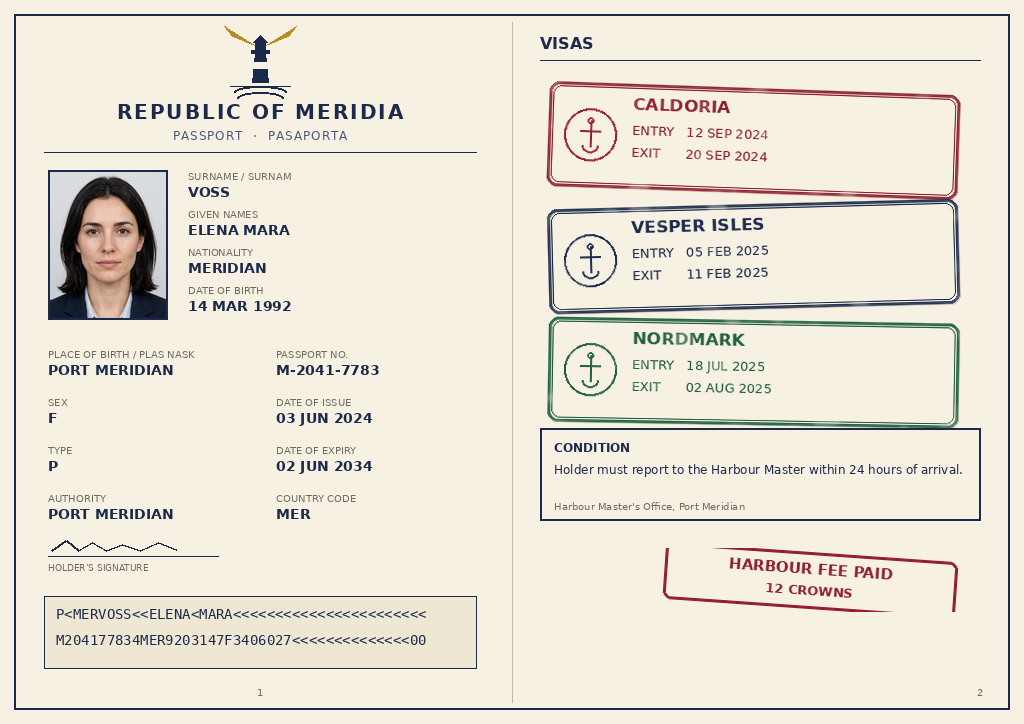
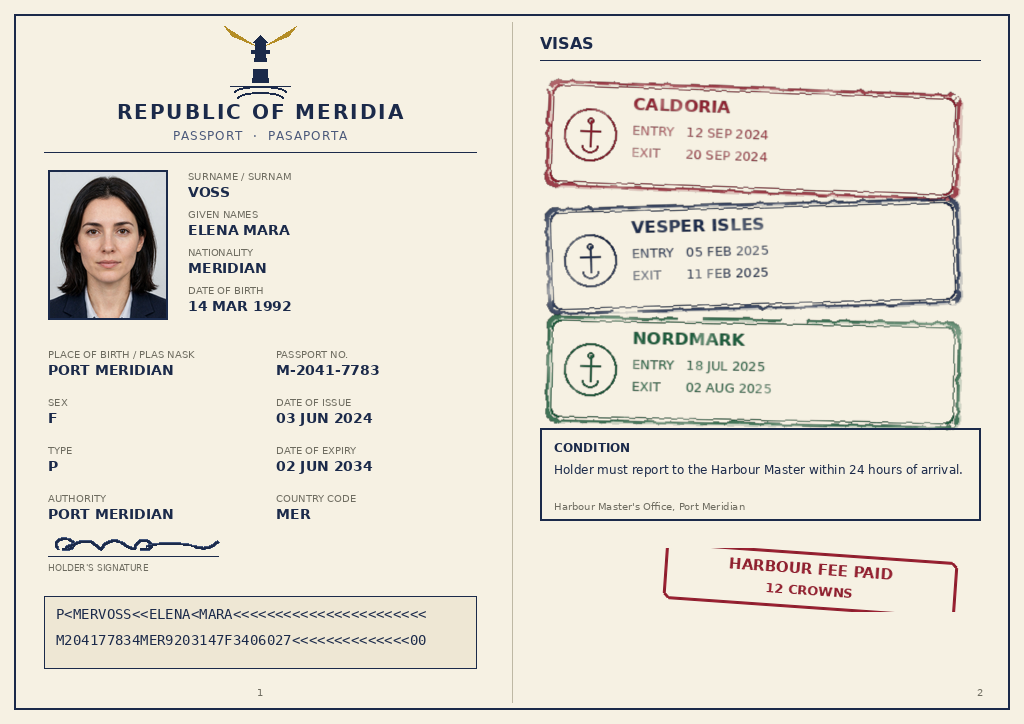
Fix weak parts for top 1-3: hand-stamped visa stamps (wobbling border, ink gaps, double impression, coarse dry areas, grain, bleed) + flowing handwritten signature (bezier loop, scrawl, flourish); dates/names unchanged

Changed region(s): [[0.5312, 0.0912, 0.9375, 0.6077], [0.0312, 0.7293, 0.2188, 0.7597], [0.6875, 0.4862, 0.75, 0.547]]

diff --git a/build-image.py b/build-image.py
@@ -108,25 +108,69 @@ def field(draw, x, y, label, value, label_size=10, value_size=14, width=200):
     text(draw, (x, y + 14), value, font(SANS_BOLD, value_size), fill=NAVY)
 
 
+def _jittered_rect(draw, x0, y0, x1, y1, radius, rng, fill, width,
+                   jitter=1.3, gaps=0):
+    """Rounded-rectangle border with a hand-stamped wobble: every perimeter
+    point is jittered a touch, and optionally a few short stretches are
+    erased where the ink skipped. Deterministic (uses the caller's rng)."""
+    import math
+    pts = []
+
+    def arc(cx, cy, r, a0, a1):
+        n = max(2, int(abs(a1 - a0) * r / 6))
+        for i in range(n + 1):
+            a = math.radians(a0 + (a1 - a0) * i / n)
+            pts.append((cx + r * math.cos(a), cy + r * math.sin(a)))
+
+    def edge(xa, ya, xb, yb):
+        n = max(2, int(math.hypot(xb - xa, yb - ya) / 6))
+        for i in range(n + 1):
+            pts.append((xa + (xb - xa) * i / n, ya + (yb - ya) * i / n))
+
+    edge(x0 + radius, y0, x1 - radius, y0)              # top
+    arc(x1 - radius, y0 + radius, radius, -90, 0)       # top-right corner
+    edge(x1, y0 + radius, x1, y1 - radius)              # right
+    arc(x1 - radius, y1 - radius, radius, 0, 90)        # bottom-right corner
+    edge(x1 - radius, y1, x0 + radius, y1)              # bottom
+    arc(x0 + radius, y1 - radius, radius, 90, 180)      # bottom-left corner
+    edge(x0, y1 - radius, x0, y0 + radius)              # left
+    arc(x0 + radius, y0 + radius, radius, 180, 270)     # top-left corner
+    jpts = [(px + rng.uniform(-jitter, jitter),
+             py + rng.uniform(-jitter, jitter)) for px, py in pts]
+    draw.line(jpts + [jpts[0]], fill=fill, width=width, joint="curve")
+    for _ in range(gaps):
+        i = rng.randrange(4, len(jpts) - 8)
+        draw.line(jpts[i:i + 5], fill=(0, 0, 0, 0), width=width + 1)
+
+
 def stamp(text_lines, border, accent, rotate_deg, emblem="anchor"):
     """One entry/exit stamp on its own layer, slightly rotated.
-    Irregular, uneven ink like a real rubber stamp: a faint ghost border
-    (the stamp shifted a touch), a slightly fainter outer border, and
-    deterministic faded patches where the stamp was pressed unevenly."""
+    Irregular, uneven ink like a real rubber stamp: a wobbling border with
+    a few gaps where the ink skipped, a faint double impression (the stamp
+    bounced when it hit the page), and deterministic faded patches, coarse
+    dry areas and fine grain where it was pressed unevenly. All randomness
+    uses one fixed seed per country, so every run produces the same image."""
     sw, sh = 410, 104
     layer = Image.new("RGBA", (sw + 24, sh + 24), (0, 0, 0, 0))
     d = ImageDraw.Draw(layer)
     x0, y0 = 12, 12
     ink = tuple(border) + (255,)
-    faint = tuple(border) + (60,)
-    # faint ghost border, offset 1px (the stamp shifted a touch on the page)
-    d.rounded_rectangle([x0 + 1, y0 + 1, x0 + sw + 1, y0 + sh + 1], radius=10,
-                        outline=faint, width=3)
-    # outer border, slightly fainter than the inner one
-    d.rounded_rectangle([x0, y0, x0 + sw, y0 + sh], radius=10,
-                        outline=tuple(border) + (215,), width=3)
-    d.rounded_rectangle([x0 + 4, y0 + 4, x0 + sw - 4, y0 + sh - 4], radius=8,
-                        outline=ink, width=1)
+    # Fixed seed per country so each stamp wears differently, yet every run
+    # produces the same image. (The rng is created here so the border wobble,
+    # the ink gaps and the masks below all draw from one sequence.)
+    seed = 20261121 + sum(ord(c) for c in text_lines[0])
+    rng = random.Random(seed)
+    # double impression: ghost of the whole frame, offset (2,1), faint —
+    # the stamp bounced a touch when it hit the page
+    _jittered_rect(d, x0 + 2, y0 + 1, x0 + sw + 2, y0 + sh + 1, 10,
+                   rng, tuple(border) + (55,), 3, jitter=1.0)
+    # main outer border: wobbles like a hand-pressed stamp, with a few
+    # short gaps where the ink skipped
+    _jittered_rect(d, x0, y0, x0 + sw, y0 + sh, 10,
+                   rng, tuple(border) + (215,), 3, gaps=3)
+    # inner border, lightly wobbled too
+    _jittered_rect(d, x0 + 4, y0 + 4, x0 + sw - 4, y0 + sh - 4, 8,
+                   rng, ink, 1, jitter=0.8)
     # emblem: circle with a small anchor
     ex, ey, er = x0 + 16, y0 + sh // 2, 26
     d.ellipse([ex, ey - er, ex + 2 * er, ey + er], outline=ink, width=2)
@@ -140,10 +184,6 @@ def stamp(text_lines, border, accent, rotate_deg, emblem="anchor"):
     text(d, (tx, y0 + 38), text_lines[1], font(SANS, 13), fill=ink)
     text(d, (tx, y0 + 60), text_lines[2], font(SANS, 13), fill=ink)
     # uneven ink: deterministic faded patches (pressed unevenly).
-    # Fixed seed per country so each stamp fades differently, yet every run
-    # produces the same image.
-    seed = 20261121 + sum(ord(c) for c in text_lines[0])
-    rng = random.Random(seed)
     mask = Image.new("L", layer.size, 255)
     md = ImageDraw.Draw(mask)
     for _ in range(52):
@@ -152,17 +192,77 @@ def stamp(text_lines, border, accent, rotate_deg, emblem="anchor"):
         r = rng.randint(3, 10)
         md.ellipse([x - r, y - r, x + r, y + r], fill=rng.randint(170, 235))
     mask = mask.filter(ImageFilter.GaussianBlur(2))
+    # coarse uneven ink: a few larger faded areas where the stamp pad was
+    # dry or the page was pressed unevenly (kept light so text stays legible)
+    coarse = Image.new("L", layer.size, 255)
+    cd = ImageDraw.Draw(coarse)
+    for _ in range(16):
+        x = rng.randint(0, layer.width - 1)
+        y = rng.randint(0, layer.height - 1)
+        r = rng.randint(10, 24)
+        cd.ellipse([x - r, y - r, x + r, y + r], fill=rng.randint(160, 210))
+    coarse = coarse.filter(ImageFilter.GaussianBlur(6))
+    mask = ImageChops.multiply(mask, coarse)
+    # fine grain: the paper's tooth showing through thin ink
+    grain = Image.new("L", layer.size, 255)
+    gd = ImageDraw.Draw(grain)
+    for _ in range(500):
+        x = rng.randint(0, layer.width - 1)
+        y = rng.randint(0, layer.height - 1)
+        gd.point((x, y), fill=rng.randint(180, 240))
+    grain = grain.filter(ImageFilter.GaussianBlur(0.5))
+    mask = ImageChops.multiply(mask, grain)
     r_, g_, b_, a_ = layer.split()
     layer = Image.merge("RGBA", (r_, g_, b_, ImageChops.multiply(a_, mask)))
+    # slight ink bleed into the paper fibres
+    layer = layer.filter(ImageFilter.GaussianBlur(0.6))
     return layer.rotate(rotate_deg, resample=Image.BICUBIC, expand=False)
 
 
+def _bezier(p0, p1, p2, p3, n=20):
+    """Sample a cubic bezier curve (deterministic, no randomness)."""
+    pts = []
+    for i in range(n + 1):
+        t = i / n
+        mt = 1.0 - t
+        pts.append((
+            mt ** 3 * p0[0] + 3 * mt * mt * t * p1[0]
+            + 3 * mt * t * t * p2[0] + t ** 3 * p3[0],
+            mt ** 3 * p0[1] + 3 * mt * mt * t * p1[1]
+            + 3 * mt * t * t * p2[1] + t ** 3 * p3[1],
+        ))
+    return pts
+
+
 def signature(draw, x, y, w):
-    """A restrained hand-drawn signature squiggle + rule."""
-    pts = [(x + 4, y + 14), (x + 18, y + 4), (x + 30, y + 14), (x + 44, y + 6),
-           (x + 58, y + 14), (x + 74, y + 8), (x + 92, y + 14), (x + 110, y + 6),
-           (x + 128, y + 13)]
-    draw.line(pts, fill=NAVY, width=2, joint="curve")
+    """A flowing handwritten signature: an initial loop, a scrawled body
+    with pen lifts, and a long underline flourish — a quick cursive
+    signature, not readable text and not a zigzag. Drawn in a 170x16 box
+    above the rule; a softer wide pass under a crisp narrow pass gives
+    the stroke pen pressure."""
+    loop = (
+        ((10, 13), (5, 3), (16, 0), (24, 5)),
+        ((24, 5), (29, 11), (21, 15), (14, 13)),
+    )
+    body = (
+        ((18, 11), (26, 9), (31, 5), (38, 5)),
+        ((38, 5), (46, 5), (48, 11), (53, 13)),
+        ((53, 13), (57, 6), (65, 3), (73, 6)),
+        ((73, 6), (79, 10), (81, 13), (87, 12)),
+        ((87, 12), (89, 3), (99, 2), (103, 8)),
+        ((103, 8), (105, 13), (99, 15), (92, 13)),
+    )
+    flourish = (
+        ((98, 10), (112, 7), (128, 6), (146, 10)),
+        ((146, 10), (156, 14), (166, 12), (170, 5)),
+    )
+    for stroke in (loop, body, flourish):
+        pts = []
+        for seg in stroke:
+            pts.extend(_bezier(*seg))
+        pts = [(x + px, y + py) for px, py in pts]
+        draw.line(pts, fill=(70, 88, 125), width=3, joint="curve")
+        draw.line(pts, fill=NAVY, width=2, joint="curve")
     draw.line([x, y + 20, x + w, y + 20], fill=NAVY, width=1)
     text(draw, (x, y + 26), "HOLDER'S SIGNATURE", font(SANS, 9), fill=GREY)
 
